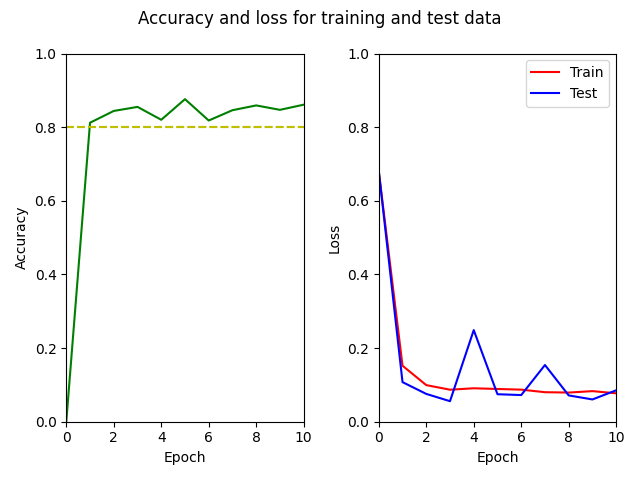
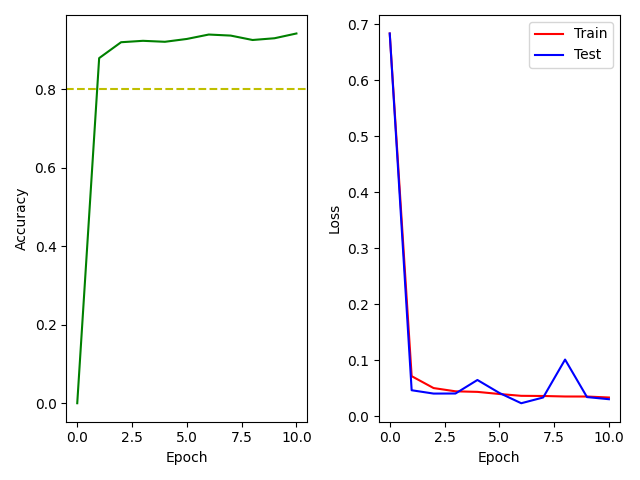
Fix batch size bug

diff --git a/Homework 07/Training.py b/Homework 07/Training.py
@@ -1,10 +1,11 @@
 import tensorflow as tf
 import matplotlib.pyplot as plt
+from tensorflow._api.v2 import data
 
 from MyModel import *
 
 seq_len = 5
-num_samples = 28000
+num_samples = 100000
 
 RANGE_MAX = 2
 RANGE_MIN = -RANGE_MAX
@@ -13,15 +14,17 @@ RANGE_MIN = -RANGE_MAX
 def main():
  
     dataset = tf.data.Dataset.from_generator(my_integration_task, (tf.float32, tf.uint8))# , output_signature=tf.TensorSpec(shape,dtype))
-    
     dataset = dataset.apply(prepare_data)
- 
-    train_dataset = dataset.take(10000)
-    test_dataset = dataset.take(1000)
+    
+    train_size = 5000
+    test_size = 1000
+    train_dataset = dataset.take(train_size)
+    dataset.skip(train_size)
+    test_dataset = dataset.take(test_size)
 
     ### Hyperparameters
     num_epochs = 10
-    learning_rate = 0.001
+    learning_rate = 0.01
 
     # Initialize the model.
     model = MyModel()
@@ -48,28 +51,7 @@ def main():
     train_losses.append(train_loss)
     
     model.summary()
-
-    fig = plt.figure()
-    fig.suptitle("Accuracy and loss for training and test data")
-
-    ax = fig.add_subplot(121)
-    ax.set_xlim([0, num_epochs])
-    ax.set_ylim([0, 1])
-
-    ax.set_xlabel("Epoch")
-    ax.set_ylabel("Accuracy")
-
-    ax.axhline(y=0.8, color='y', linestyle='--')
-
-    ax1 = fig.add_subplot(122)
-    ax1.set_xlim([0, num_epochs])
-    ax1.set_ylim([0, 1])
-    #ax1.legend(loc="upper right")
-
-    ax1.set_xlabel("Epoch")
-    ax1.set_ylabel("Loss")
-
-    x = []
+   
     # We train for num_epochs epochs.
     for epoch in range(num_epochs):
         print(f'Epoch: {str(epoch)} starting with accuracy {test_accuracies[-1]}')
@@ -80,25 +62,7 @@ def main():
             train_loss = train_step(model, input, target, cross_entropy_loss, optimizer)
             epoch_loss_agg.append(train_loss)
 
-        # x.append(epoch)
-     
-        # ax.plot(x, test_accuracies, color='g')
-        
-        # ax1.plot(x, train_losses, 'r', label="Train")
-        # ax1.plot(x, test_losses, 'b', label= "Test")
-
-        # if len(x) == 1:
-        #     ax1.legend(loc="upper right")    
-
-        # fig.tight_layout()
-        # fig.canvas.draw()
-        # #fig.show()
-        # plt.pause(0.05)
-        # fig.savefig(f"./Plots/epoch {epoch}.png")
-
-
-
-        # #track training loss
+        # track training loss
         train_losses.append(tf.reduce_mean(epoch_loss_agg))
 
         # testing, so we can track accuracy and test loss
@@ -138,32 +102,32 @@ def main():
 def prepare_data(data):
 
     #cache this progress in memory, as there is no need to redo it; it is deterministic after all
-    data = data.cache()
+    #data = data.cache()
 
     #shuffle, batch, prefetch
-    data = data.shuffle(100)
-    data = data.batch(1) # <-- high batch size decreases accuracy
+    data = data.shuffle(200)
+    data = data.batch(32) # <-- high batch size decreases accuracy
     data = data.prefetch(20)
     #return preprocessed dataset
     return data
 
 
-def integration_task(seq_len, num_samples):
-    for _ in range(num_samples):
-        data = np.random.uniform(RANGE_MIN, RANGE_MAX, seq_len)
-        data = np.expand_dims(data,-1)
-        sum = np.sum(data)
+def integration_task(seq_len):
+    
+    data = np.random.uniform(RANGE_MIN, RANGE_MAX, seq_len)
+    data = np.expand_dims(data,-1)
+    sum = np.sum(data)
 
-        if sum >= 1:
-            return data, 1
-        else:
-            return data, 0
+    if sum >= 1:
+        return data, 1
+    else:
+        return data, 0
 
 
 def my_integration_task():
     global seq_len, num_samples
-    for _ in range(80000):
-        data, target = integration_task(seq_len, num_samples)
+    for _ in range(num_samples):
+        data, target = integration_task(seq_len)
         yield data, target
 
 if __name__ == "__main__":

diff --git a/Homework 07/MyModel.py b/Homework 07/MyModel.py
@@ -11,9 +11,9 @@ class MyModel(tf.keras.Model):
         super(MyModel, self).__init__()
 
         self.layer_list = [
-            tf.keras.layers.Dense(32, activation="sigmoid"),
-            tf.keras.layers.Dense(16, activation="sigmoid"),
-            LSTM_Layer(LSTM_Cell(10)),
+            tf.keras.layers.Dense(32, activation="tanh"),
+            #tf.keras.layers.Dense(16, activation="tanh"),
+            LSTM_Layer(LSTM_Cell(100)),
         
 
             tf.keras.layers.Dense(1, activation="sigmoid")
@@ -56,9 +56,13 @@ def test(model, test_data, loss_function):
 
     for (input, target) in test_data:
         
-        prediction = model(input)
-        
+        prediction = model(input)        
         sample_test_loss = loss_function(target, prediction)
+
+        # prediction shape: (batch_size, 1)
+        # target shape: (batch_size, ) => Add dim for compare
+        target = np.expand_dims(target, -1) # now: (batch_size, 1)
+        
         sample_test_accuracy =  np.round(target, 1) == np.round(prediction, 1) # <- Binary classification
         sample_test_accuracy = np.mean(sample_test_accuracy)
         test_loss_aggregator.append(sample_test_loss.numpy())
